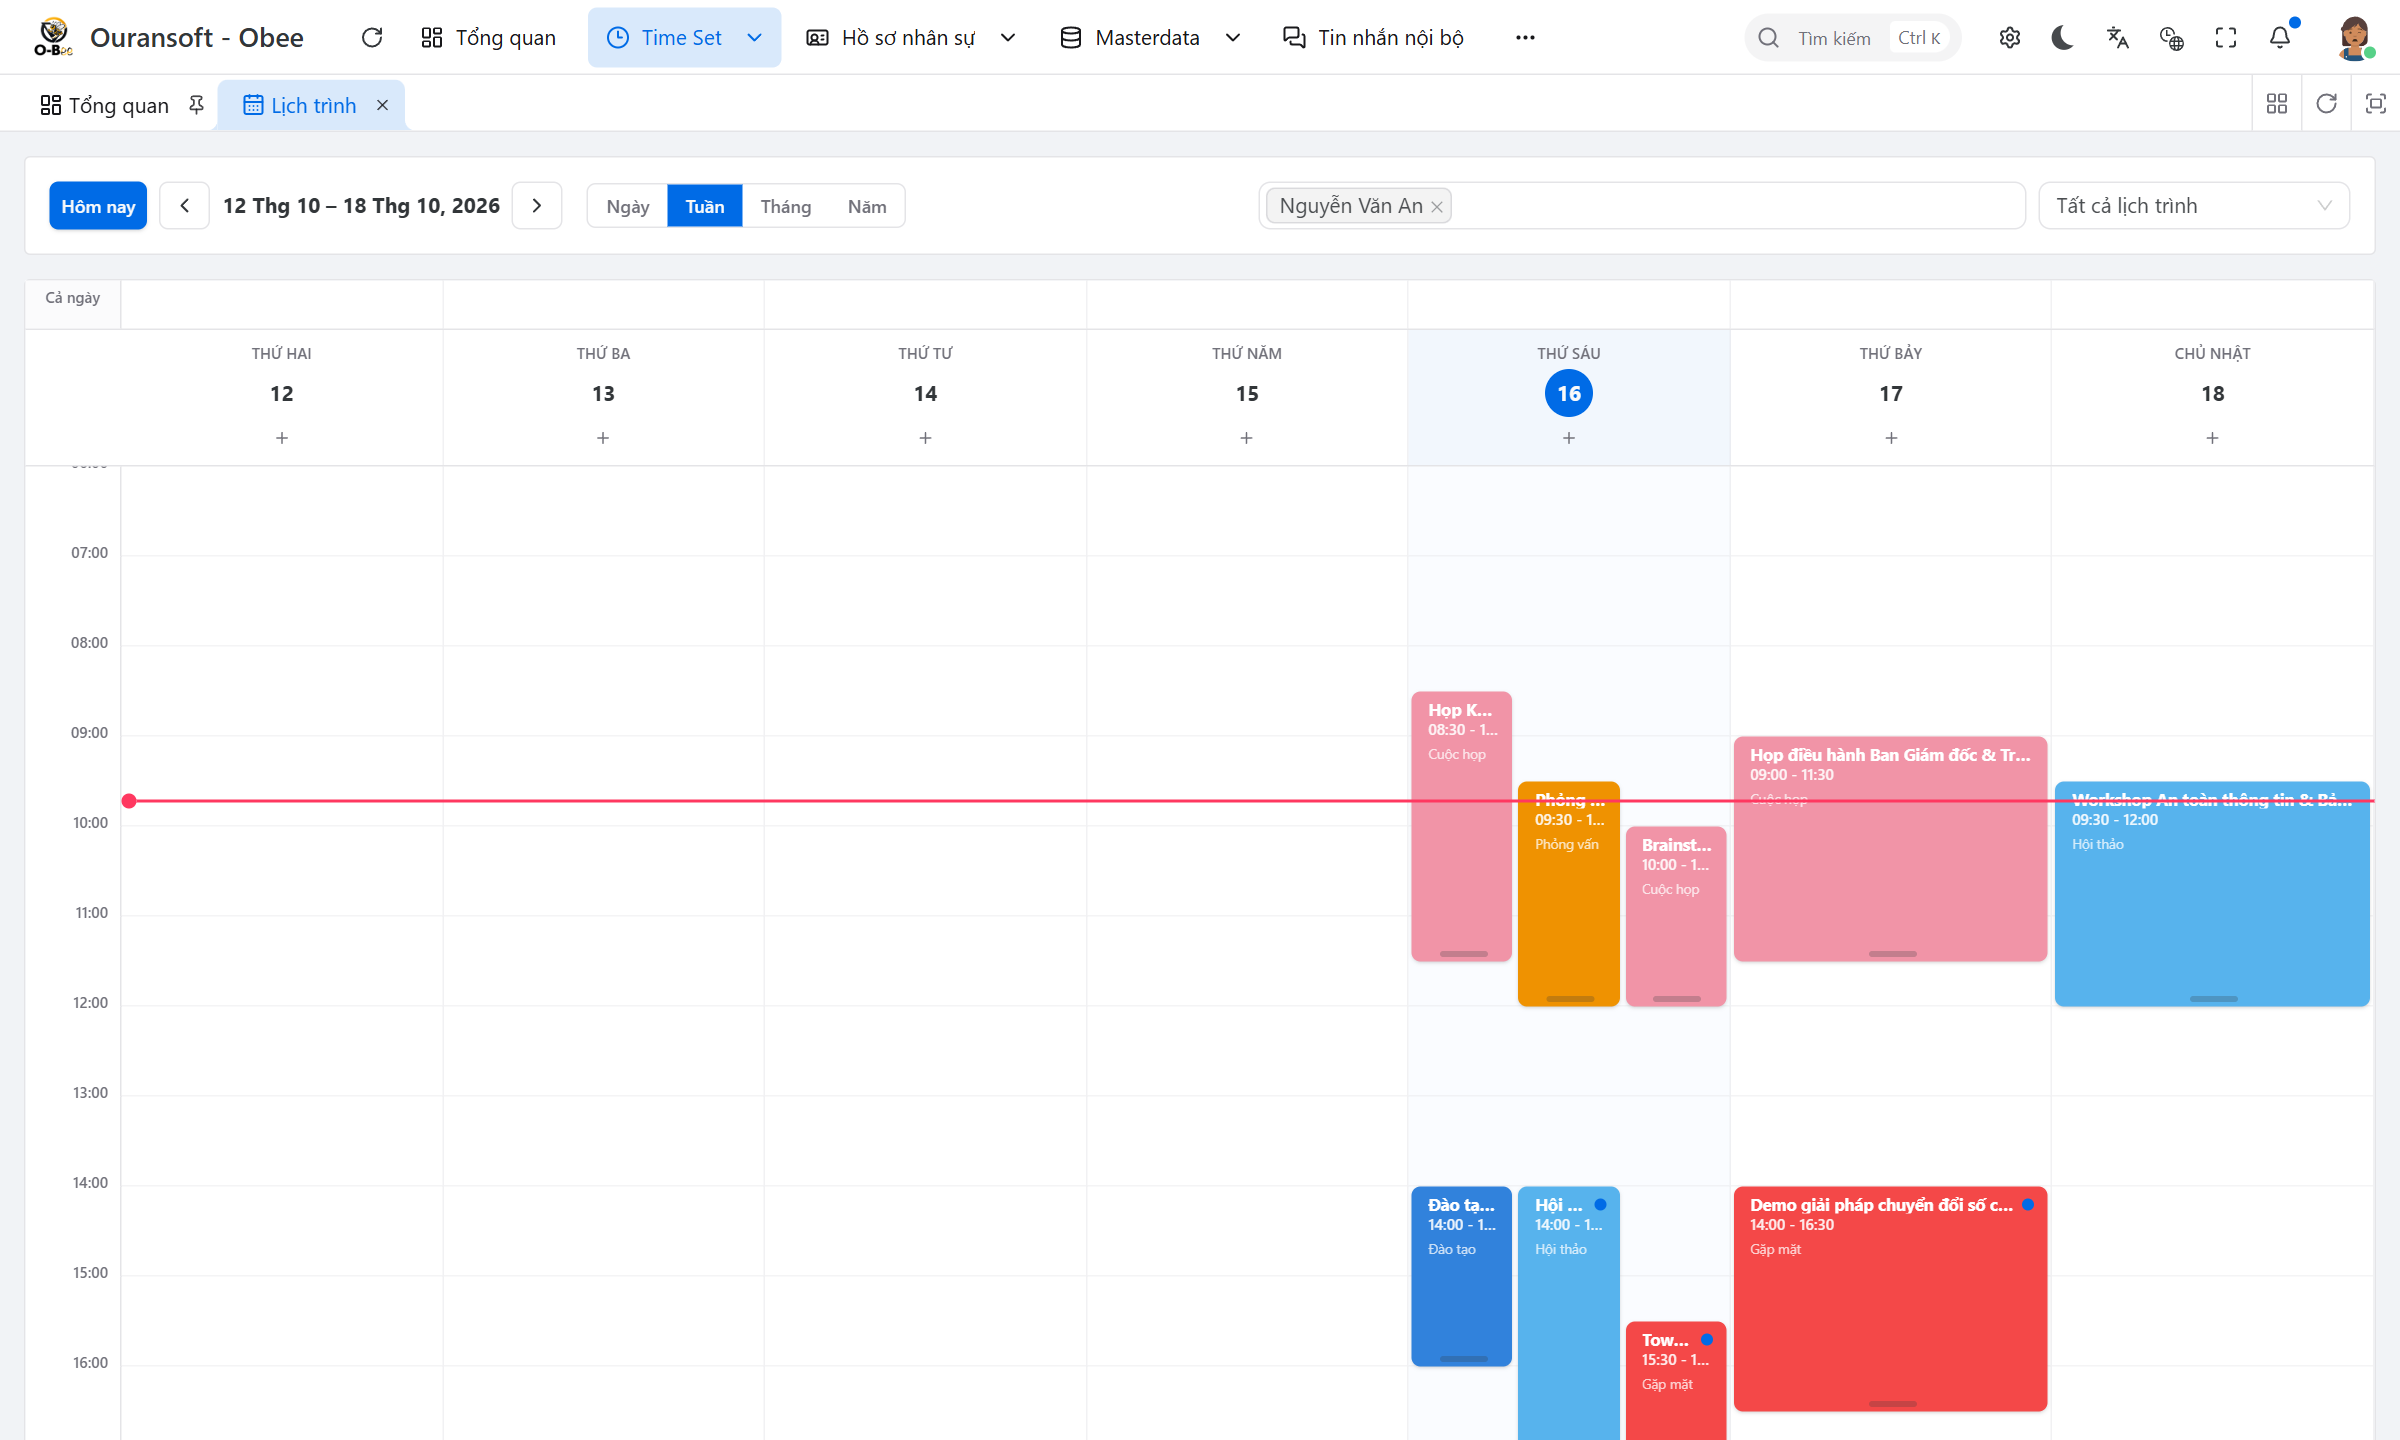
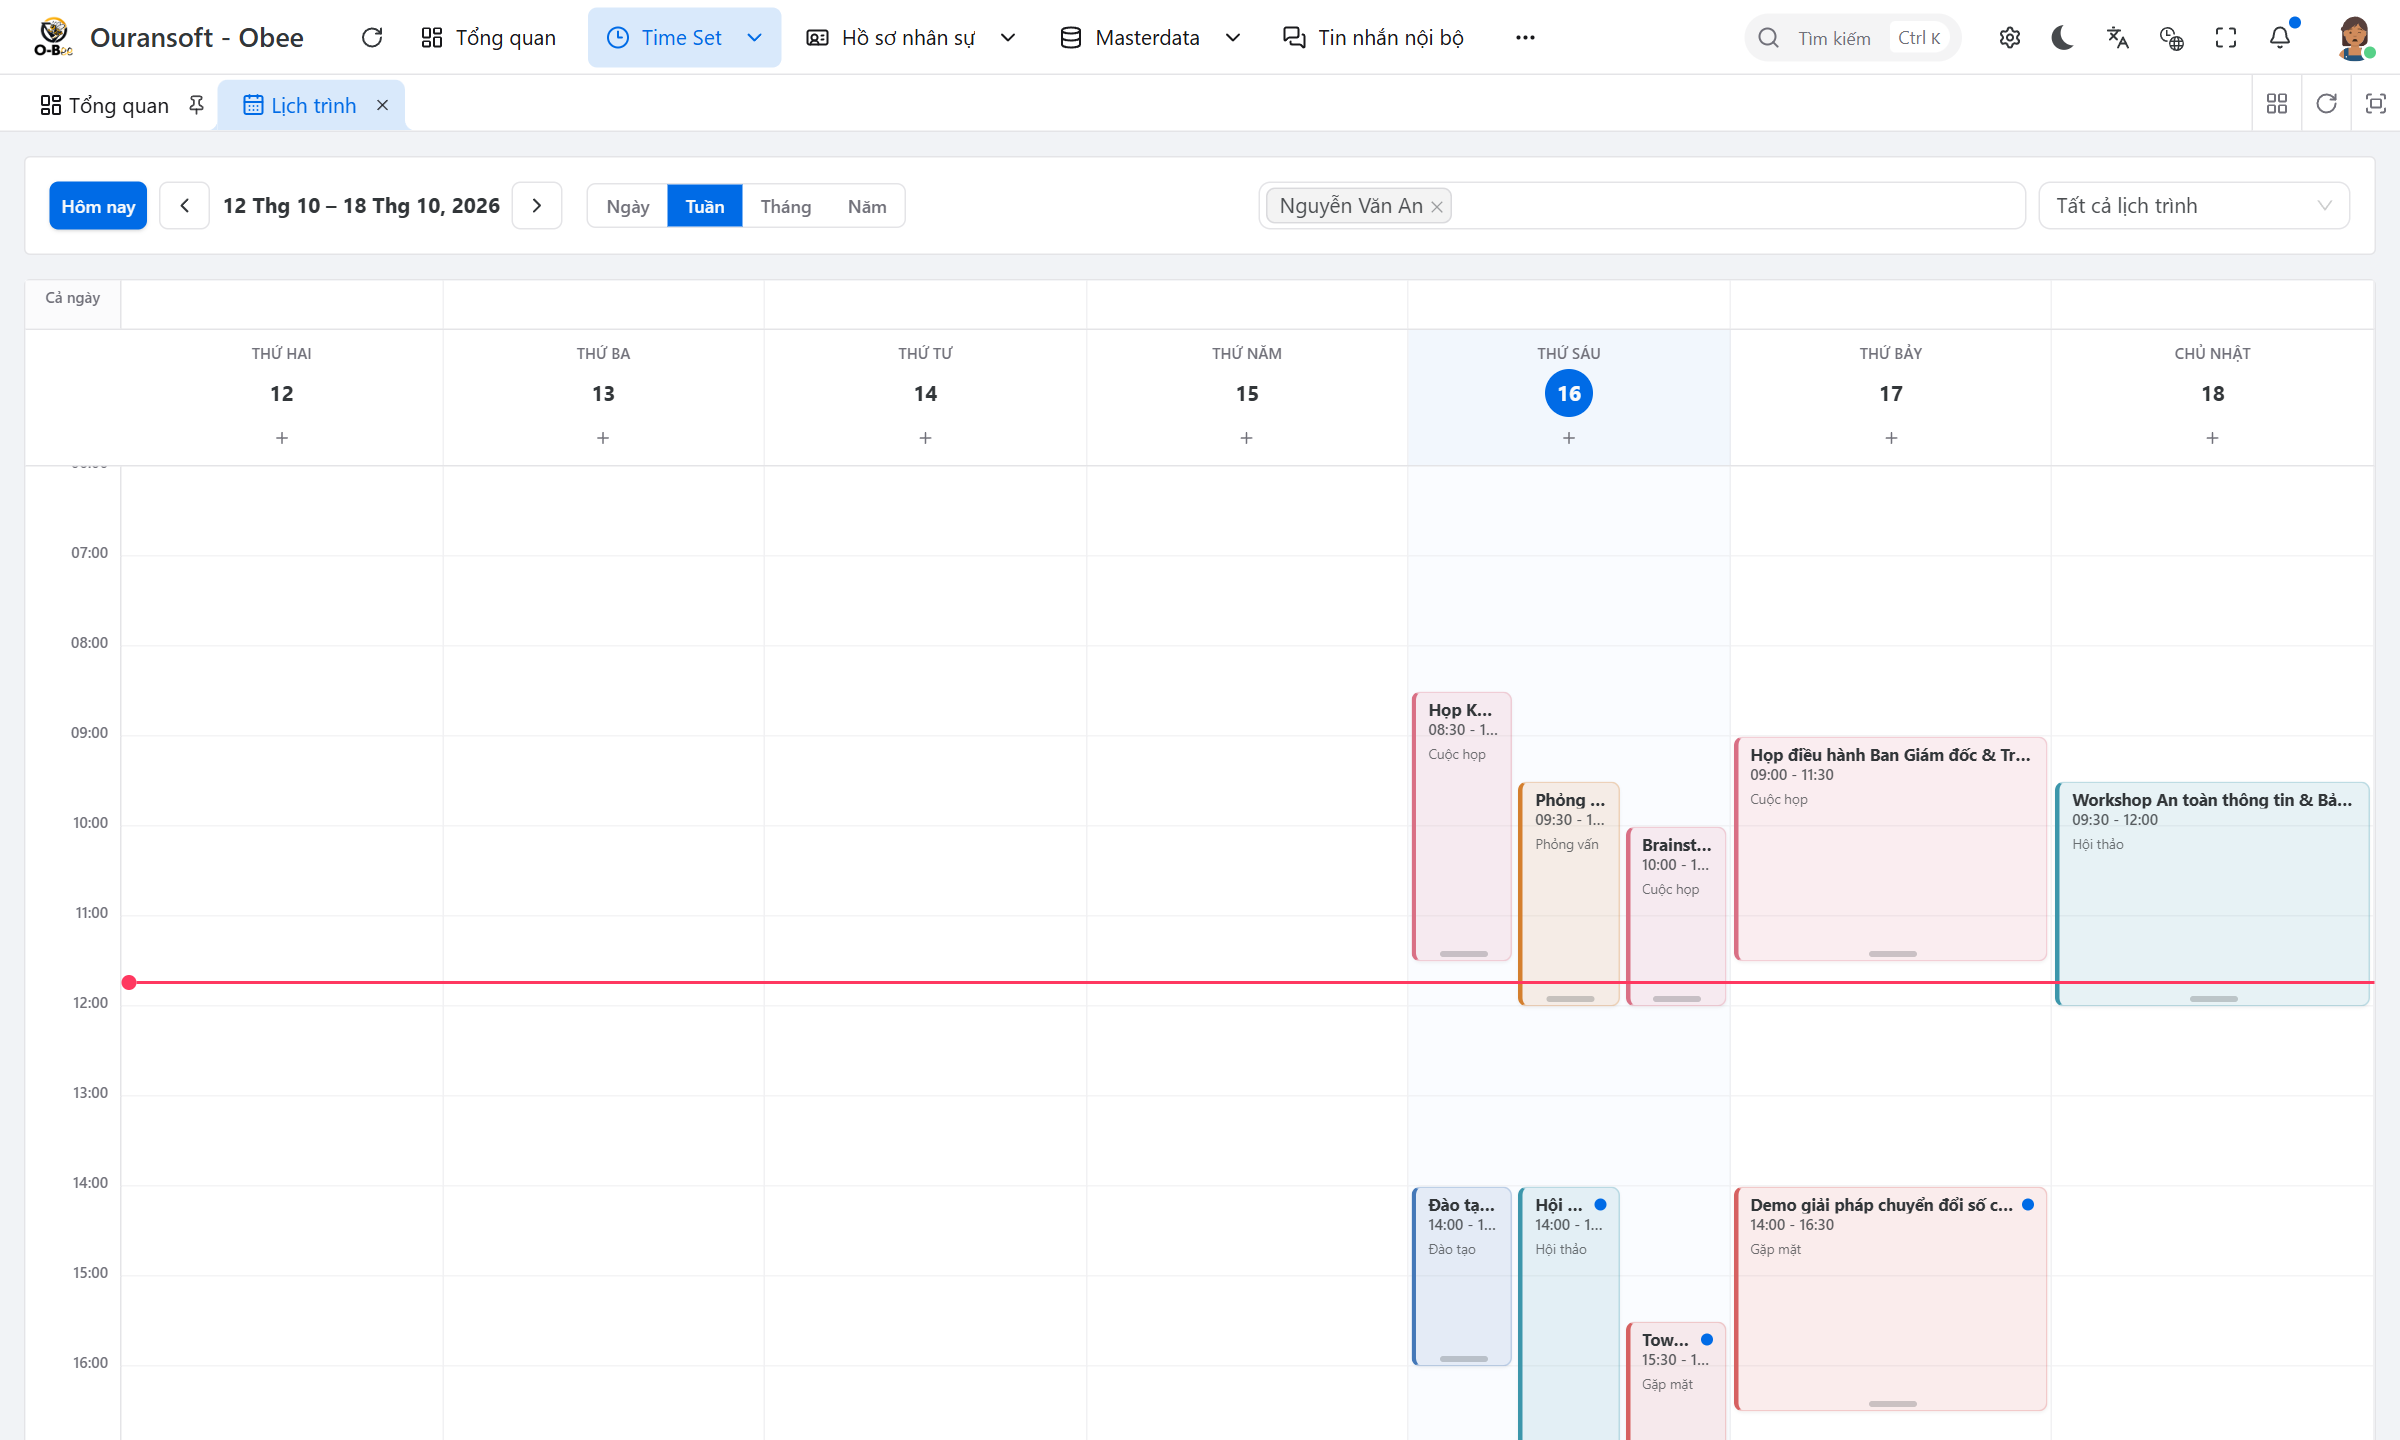
style(schedules): soften event colors and modernize week view timeline cards

Changed region(s): [[0.5625, 0.4688, 1.0, 0.7188], [0.5625, 0.8125, 0.875, 1.0]]

diff --git a/web/apps/workspace/src/views/schedules/schedule-page.ts b/web/apps/workspace/src/views/schedules/schedule-page.ts
@@ -584,20 +584,45 @@ export function buildWeekSegments(
 }
 
 const scheduleTypeClasses = {
-  business_trip: 'border-[#b99976] bg-[#b99976]',
-  holiday: 'border-[#b592d8] bg-[#b592d8]',
-  interview: 'border-[#ef9201] bg-[#ef9201]',
-  meeting: 'border-[#f194a7] bg-[#f194a7]',
-  meetup: 'border-[#f44848] bg-[#f44848]',
-  seminar: 'border-[#57b3ed] bg-[#57b3ed]',
-  training: 'border-[#3182dc] bg-[#3182dc]',
-  default: 'border-[#6b7280] bg-[#6b7280]',
+  business_trip: 'border-[#8f755a] bg-[#8f755a]',
+  default: 'border-[#64748b] bg-[#64748b]',
+  holiday: 'border-[#8d6db3] bg-[#8d6db3]',
+  interview: 'border-[#d47f2e] bg-[#d47f2e]',
+  meeting: 'border-[#d97085] bg-[#d97085]',
+  meetup: 'border-[#d66161] bg-[#d66161]',
+  seminar: 'border-[#3c96ab] bg-[#3c96ab]',
+  training: 'border-[#4478b8] bg-[#4478b8]',
 };
+
+const scheduleTypeWeekBlockClasses = {
+  business_trip:
+    'border-l-[#8f755a] bg-[#8f755a]/12 dark:bg-[#8f755a]/22 border-t border-r border-b border-[#8f755a]/25 text-foreground',
+  default:
+    'border-l-[#64748b] bg-[#64748b]/12 dark:bg-[#64748b]/22 border-t border-r border-b border-[#64748b]/25 text-foreground',
+  holiday:
+    'border-l-[#8d6db3] bg-[#8d6db3]/12 dark:bg-[#8d6db3]/22 border-t border-r border-b border-[#8d6db3]/25 text-foreground',
+  interview:
+    'border-l-[#d47f2e] bg-[#d47f2e]/12 dark:bg-[#d47f2e]/22 border-t border-r border-b border-[#d47f2e]/25 text-foreground',
+  meeting:
+    'border-l-[#d97085] bg-[#d97085]/12 dark:bg-[#d97085]/22 border-t border-r border-b border-[#d97085]/25 text-foreground',
+  meetup:
+    'border-l-[#d66161] bg-[#d66161]/12 dark:bg-[#d66161]/22 border-t border-r border-b border-[#d66161]/25 text-foreground',
+  seminar:
+    'border-l-[#3c96ab] bg-[#3c96ab]/12 dark:bg-[#3c96ab]/22 border-t border-r border-b border-[#3c96ab]/25 text-foreground',
+  training:
+    'border-l-[#4478b8] bg-[#4478b8]/12 dark:bg-[#4478b8]/22 border-t border-r border-b border-[#4478b8]/25 text-foreground',
+};
+
+export function getScheduleWeekBlockClass(schedule: Schedule): string {
+  const type = schedule.event.type as keyof typeof scheduleTypeWeekBlockClasses;
+  return scheduleTypeWeekBlockClasses[type] ?? scheduleTypeWeekBlockClasses.default;
+}
 
 export function getScheduleTypeClass(schedule: Schedule): string {
   const generalClasses = 'border text-white';
+  const type = schedule.event.type as keyof typeof scheduleTypeClasses;
   const targetColorClass =
-    scheduleTypeClasses[schedule.event.type] ?? scheduleTypeClasses.default;
+    scheduleTypeClasses[type] ?? scheduleTypeClasses.default;
 
   return `${generalClasses} ${targetColorClass}`;
 }
@@ -612,7 +637,7 @@ export function getScheduleCardClass(schedule: Schedule): string {
     }
 
     case 'repeat': {
-      return 'rounded-md border border-dashed border-black/30 bg-accent/70 text-foreground';
+      return 'rounded-md border border-transparent bg-accent/70 text-foreground';
     }
     default: {
       return 'rounded-md border border-transparent bg-accent/70 text-foreground';

diff --git a/web/apps/workspace/src/views/schedules/schedule-page.test.ts b/web/apps/workspace/src/views/schedules/schedule-page.test.ts
@@ -322,7 +322,7 @@ describe('schedule color classes', () => {
           },
         }),
       ),
-    ).toContain('bg-[#3182dc]');
+    ).toContain('bg-[#4478b8]');
   });
 
   it('returns solid type colors for multi-day schedule bars', () => {
@@ -336,7 +336,7 @@ describe('schedule color classes', () => {
     });
     const classes = getScheduleCardClass(multiDaySchedule);
 
-    expect(classes).toContain('bg-[#ef9201]');
+    expect(classes).toContain('bg-[#d47f2e]');
     expect(classes).toContain('text-white');
   });
 
@@ -351,7 +351,7 @@ describe('schedule color classes', () => {
     const repeatClasses = getScheduleCardClass(repeatSchedule);
 
     expect(repeatClasses).not.toContain('border-dashed');
-    expect(repeatClasses).not.toContain('border-');
+    expect(repeatClasses).not.toContain('border-black');
     expect(repeatClasses).toBe(getScheduleCardClass(schedule));
   });
 });
@@ -392,12 +392,11 @@ describe('authoring helpers', () => {
       makeSchedule({
         event: {
           ...makeSchedule().event,
-          end_date: '2026-06-16',
-          end_time: '10:30',
+          has_reminder: true,
+          end_date: '2026-06-16T10:30:00+07:00',
           remind_range: 'minute',
           remind_value: 15,
-          start_date: '2026-06-16',
-          start_time: '09:00',
+          start_date: '2026-06-16T09:00:00+07:00',
         },
       }),
       'edit',
@@ -407,15 +406,13 @@ describe('authoring helpers', () => {
     expect(draft.start_time).toBe('09:00');
     expect(draft.end_time).toBe('10:30');
     expect(buildAuthoringPayload(draft)).toMatchObject({
-      end_date: '2026-06-16',
-      end_time: '10:30',
+      end_date: '2026-06-16T10:30',
       remind_range: 'minute',
       remind_value: 15,
       repeat_pattern: null,
       repeat_type: null,
       schedule_type: 'ordinary',
-      start_date: '2026-06-16',
-      start_time: '09:00',
+      start_date: '2026-06-16T09:00',
     });
   });
 });

diff --git a/web/apps/workspace/src/views/schedules/components/ScheduleWeekView.vue b/web/apps/workspace/src/views/schedules/components/ScheduleWeekView.vue
@@ -11,6 +11,7 @@ import {
   formatDayKeyInTimeZone,
   getScheduleShape,
   getScheduleTypeClass,
+  getScheduleWeekBlockClass,
 } from '../schedule-page';
 
 const props = defineProps<{
@@ -525,9 +526,9 @@ function handleResizeMouseDown(
               <div
                 v-for="event in (columnEvents[date] ?? [])"
                 :key="`event-${date}-${event.schedule.id}`"
-                class="group absolute z-10 flex flex-col overflow-hidden rounded-md border-l-[3px] px-2 py-1 text-left shadow-sm transition hover:shadow-md cursor-grab active:cursor-grabbing select-none"
+                class="group absolute z-10 flex flex-col overflow-hidden rounded-md border-l-[3.5px] px-2 py-1 text-left shadow-xs transition hover:shadow-md cursor-grab active:cursor-grabbing select-none"
                 :class="[
-                  getScheduleTypeClass(event.schedule),
+                  getScheduleWeekBlockClass(event.schedule),
                   activeDrag?.schedule.id === event.schedule.id ? 'opacity-30 pointer-events-none' : '',
                 ]"
                 :style="{
@@ -555,7 +556,7 @@ function handleResizeMouseDown(
                 </div>
                 <span
                   v-if="getEventHeight(event.startMinute, event.endMinute) > 34"
-                  class="truncate text-[10px] opacity-90 font-medium"
+                  class="truncate text-[10px] opacity-80 font-medium"
                 >
                   {{
                     activeResize?.schedule.id === event.schedule.id
@@ -565,7 +566,7 @@ function handleResizeMouseDown(
                 </span>
                 <span
                   v-if="getEventHeight(event.startMinute, event.endMinute) > 50"
-                  class="truncate text-[9px] opacity-75"
+                  class="truncate text-[9px] opacity-70"
                 >
                   {{ getScheduleTypeLabel(event.schedule) }}
                 </span>

diff --git a/web/apps/workspace/src/views/schedules/index.test.ts b/web/apps/workspace/src/views/schedules/index.test.ts
@@ -1718,11 +1718,11 @@ describe('schedules workspace', () => {
     expect(
       element.querySelector('[data-testid="schedule-detail-type-badge"]')
         ?.className,
-    ).toContain('bg-[#3182dc]');
+    ).toContain('bg-[#4478b8]');
     expect(
       element.querySelector('[data-testid="schedule-detail-type-badge"]')
         ?.className,
-    ).toContain('border-[#3182dc]');
+    ).toContain('border-[#4478b8]');
     expect(element.textContent).toContain(
       '18/06/2026 16:00 - 21/06/2026 00:00',
     );
